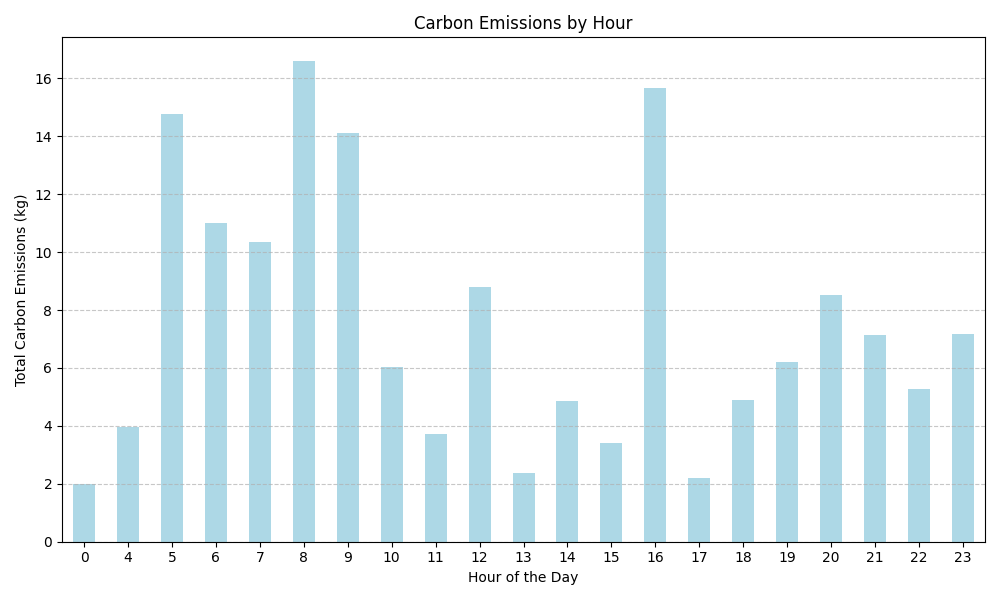
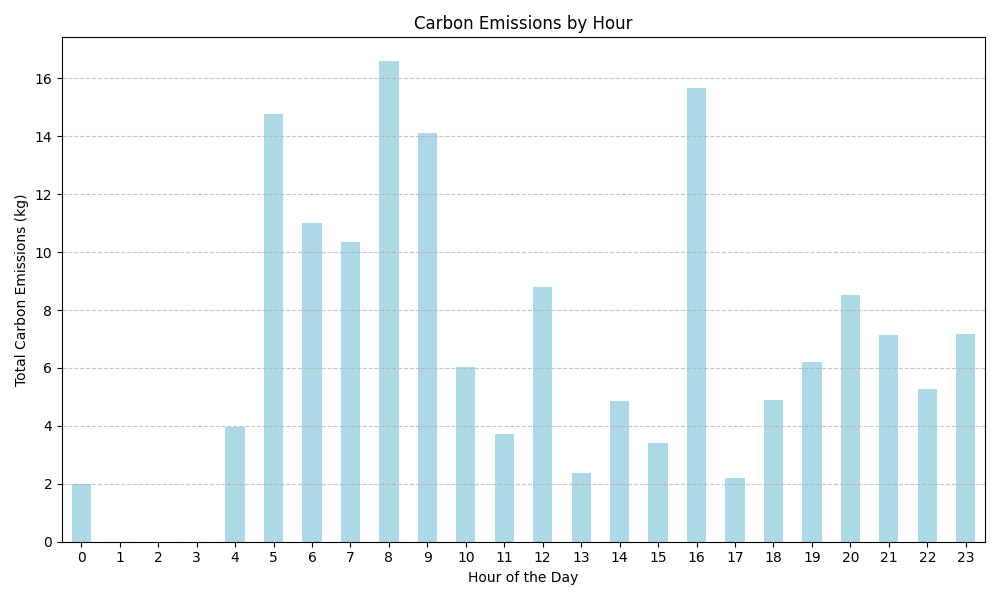
Final analysis

Changed region(s): [[0.093, 0.09, 0.992, 0.96], [0.062, 0.9, 0.093, 0.93]]

diff --git a/data_analysis.py b/data_analysis.py
@@ -25,18 +25,6 @@ plt.tight_layout()
 plt.savefig('avg_speed_per_vehicle.png')  # Save as PNG
 plt.close()
 
-# Plot average carbon emissions of each vehicle
-plt.figure(figsize=(10, 6))
-avg_carbon_emissions_per_vehicle.plot(kind='bar', color='lightgreen')
-plt.title('Average Carbon Emissions of Each Vehicle')
-plt.xlabel('Vehicle Registration Number')
-plt.ylabel('Average Carbon Emissions (kg)')
-plt.xticks(rotation=45)
-plt.grid(axis='y', linestyle='--', alpha=0.7)
-plt.tight_layout()
-plt.savefig('avg_carbon_emissions_per_vehicle.png')  # Save as PNG
-plt.close()
-
 # Plot total distance travelled by each vehicle
 plt.figure(figsize=(10, 6))
 total_distance_per_vehicle.plot(kind='bar', color='orange')
@@ -110,9 +98,15 @@ plt.tight_layout()
 plt.savefig('vehicle_locations_heatmap.png')
 plt.close()
 
+# Convert 'timestamp' column to datetime format
+df['timestamp'] = pd.to_datetime(df['timestamp'])
+
 # Calculate carbon emissions by hour
 df['hour'] = df['timestamp'].dt.hour
 carbon_emissions_by_hour = df.groupby('hour')['carbon_emissions'].sum()
+
+# Reindex to include all hours of the day
+carbon_emissions_by_hour = carbon_emissions_by_hour.reindex(range(24), fill_value=0)
 
 # Plot carbon emissions by hour
 plt.figure(figsize=(10, 6))
@@ -187,4 +181,23 @@ plt.xticks(rotation=0)
 plt.grid(axis='y', linestyle='--', alpha=0.7)
 plt.tight_layout()
 plt.savefig('energy_curve_variation_by_hour.png')  # Save as PNG
+plt.close()
+
+# Calculate total distance and total carbon emissions per vehicle
+total_distance_per_vehicle = df.groupby('reg_number')['distance'].sum()
+total_carbon_emissions_per_vehicle = df.groupby('reg_number')['carbon_emissions'].sum()
+
+# Calculate ratio of total distance to total carbon emissions for each vehicle
+ratio_distance_to_carbon_emissions = total_distance_per_vehicle / total_carbon_emissions_per_vehicle
+
+# Plot ratio of total distance to total carbon emissions for each vehicle
+plt.figure(figsize=(10, 6))
+ratio_distance_to_carbon_emissions.plot(kind='bar', color='purple')
+plt.title('Ratio of Total Distance to Total Carbon Emissions per Vehicle')
+plt.xlabel('Vehicle Registration Number')
+plt.ylabel('Ratio (Distance / Carbon Emissions)')
+plt.xticks(rotation=45)
+plt.grid(axis='y', linestyle='--', alpha=0.7)
+plt.tight_layout()
+plt.savefig('distance_to_carbon_emissions_ratio_per_vehicle.png')  # Save as PNG
 plt.close()
